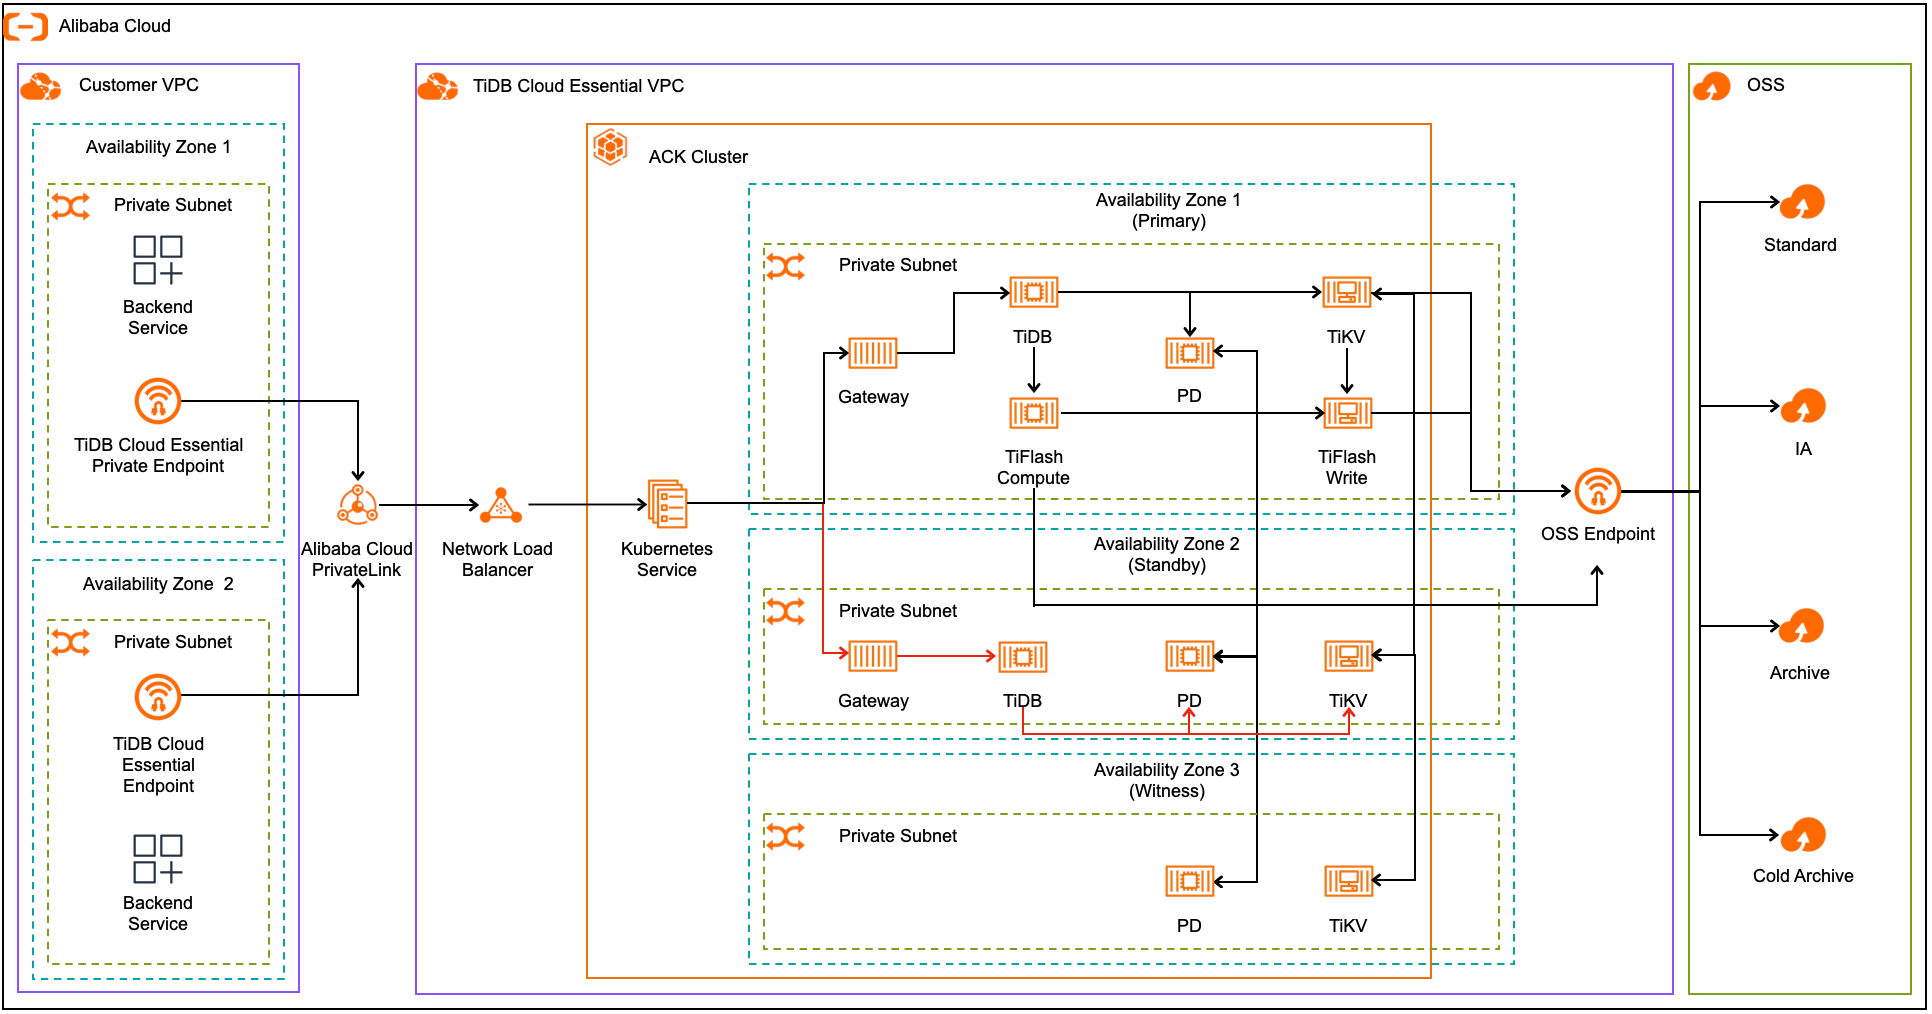
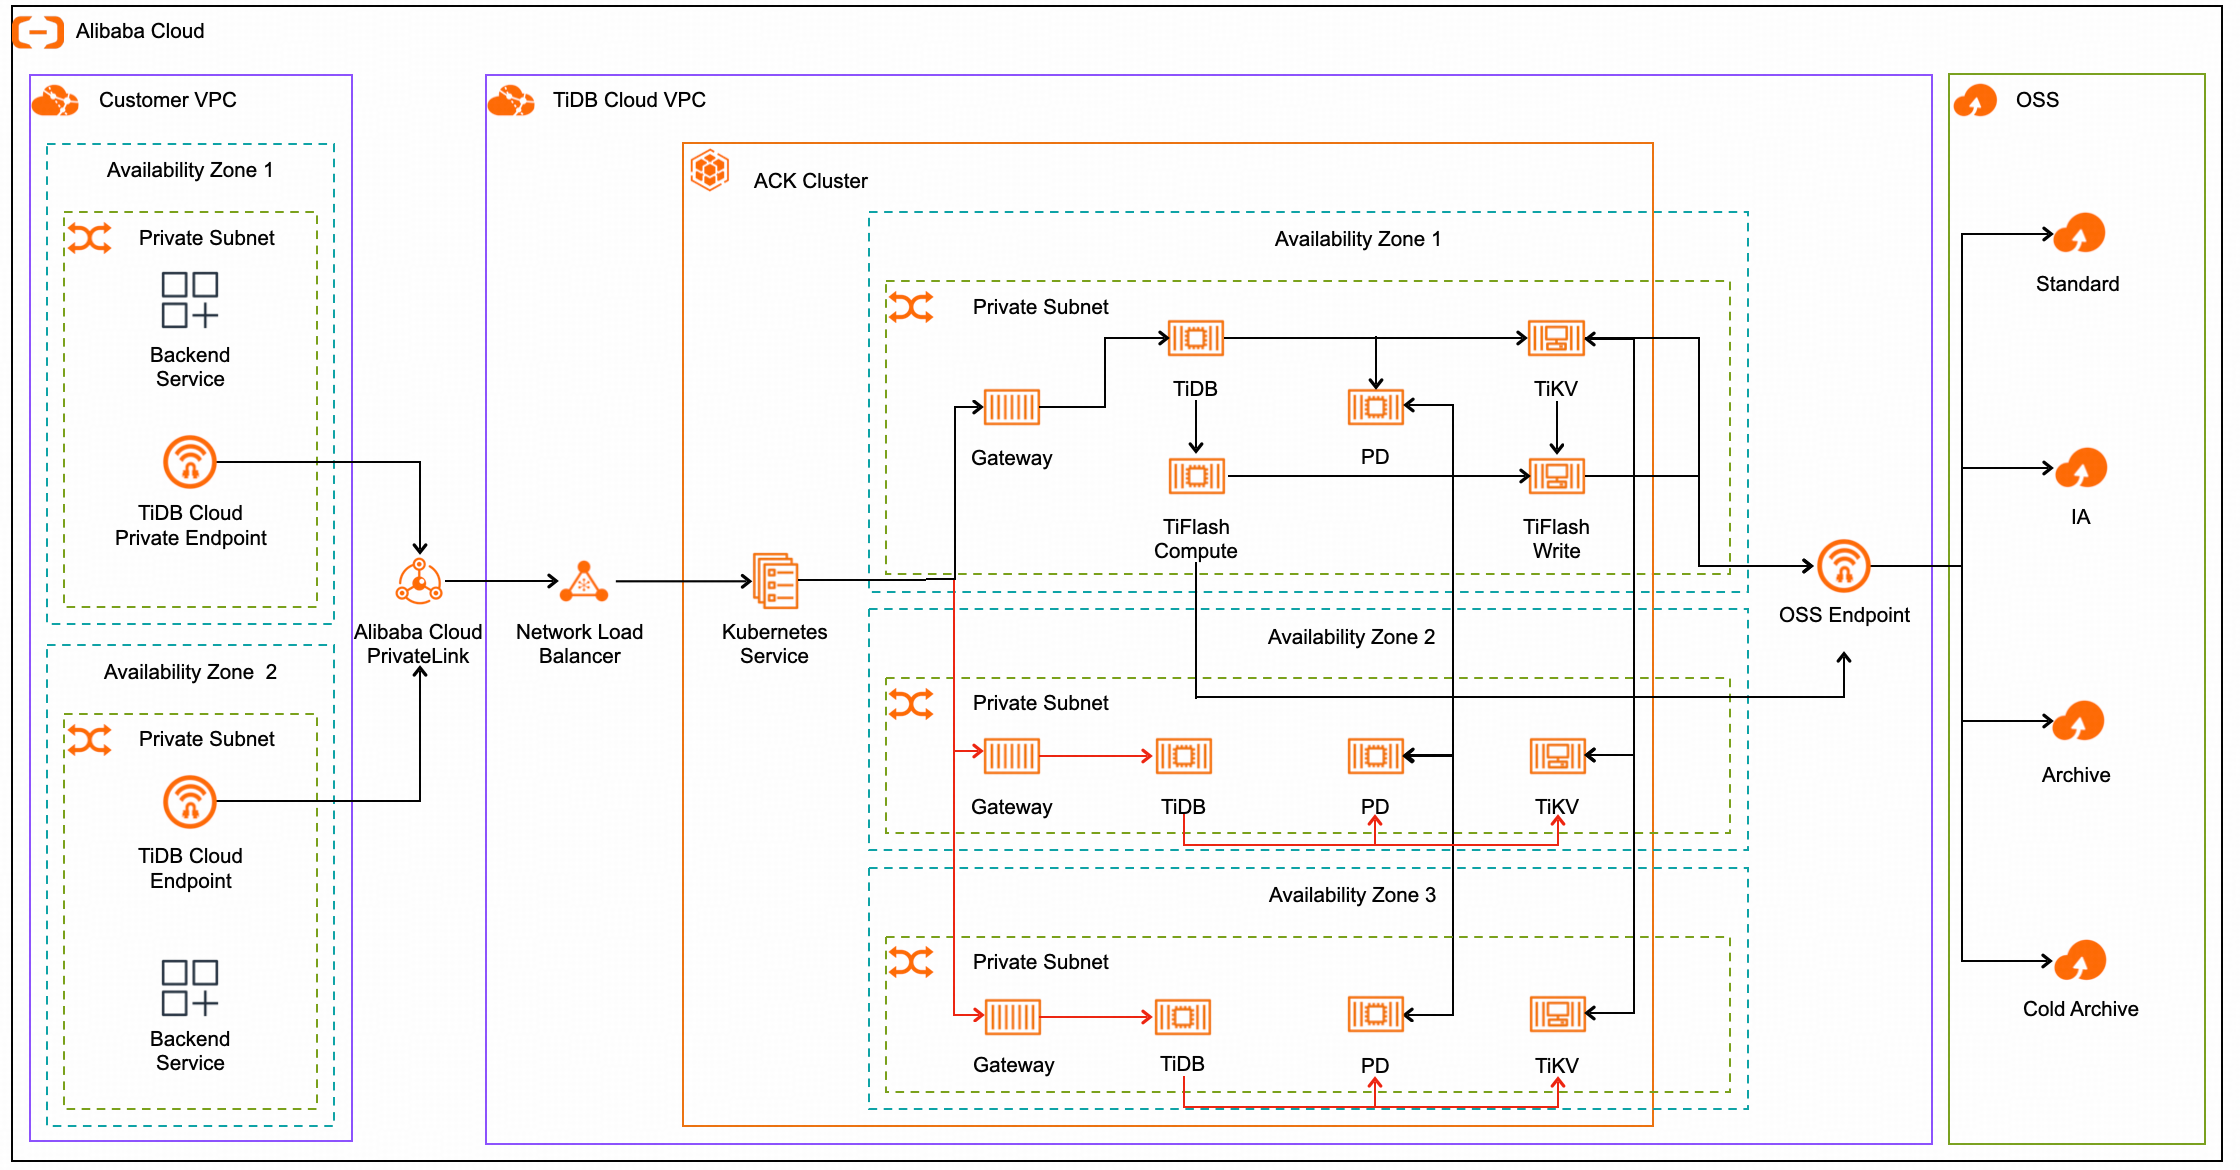
Essential-HighAvailability-changed (#23010)

Pull request: Essential-HighAvailability-changed
- Essential only support zonal high availability
- Private link does not support cross-region

<!--Thanks for your contribution to TiDB documentation. Please answer the following questions.-->
<!--
We provide several doc templates for you to use to create documentation that aligns with our style.
Please check out these templates before you submit the pull request:
https://github.com/pingcap/docs/tree/master/resources/doc-templates
-->

### First-time contributors' checklist <!--Remove this section if you're not a first-time contributor.-->

- [x] I've signed the [**Contributor License Agreement**](https://cla.pingcap.net/pingcap/docs), which is required for the repository owners to accept my contribution.

### What is changed, added or deleted? (Required)
Essential only support High availability: zonal; related doc changed

<!--Tell us what you did and why.-->

### Which TiDB version(s) do your changes apply to? (Required)

<!-- Fill in "x" in [] to tick the checkbox below.-->

**Tips for choosing the affected version(s):**

By default, **CHOOSE MASTER ONLY** so your changes will be applied to the next TiDB major or minor releases. If your PR involves a product feature behavior change or a compatibility change, **CHOOSE THE AFFECTED RELEASE BRANCH(ES) AND MASTER**.

For details, see [tips for choosing the affected versions](https://github.com/pingcap/docs/blob/master/CONTRIBUTING.md#guideline-for-choosing-the-affected-versions).
[…]

diff --git a/tidb-cloud/architecture-concepts.md b/tidb-cloud/architecture-concepts.md
@@ -53,15 +53,9 @@ For applications experiencing growing workloads and needing scalability in real 
 
 - **Enhanced capabilities**: includes all capabilities of the Starter plan, along with the capacity to handle larger and more complex workloads, as well as advanced security features.
 - **Automatic scaling**: automatically adjusts storage and computing resources to efficiently meet changing workload demands.
-- **High availability**: built-in fault tolerance and redundancy ensure your applications remain available and resilient, even during infrastructure failures.
 - **Predictable pricing**: billed based on storage and Request Capacity Units (RCUs) of the compute resources, offering transparent, usage-based pricing that scales with your needs, so you only pay for what you use without surprises.
 
-{{{ .essential }}} offers two types of high availability to address varying operational requirements.
-
-- Zonal High Availability: places all components within the same availability zone, which results in lower network latency.
-- Regional High Availability: distributes nodes across multiple availability zones, providing maximum infrastructure isolation and redundancy.
-
-For more information, see [High Availability in TiDB Cloud](/tidb-cloud/serverless-high-availability.md).
+{{{ .essential }}} offers zonal high availability, which places all components within the same availability zone to reduce network latency. For more information, see [High Availability in TiDB Cloud](/tidb-cloud/serverless-high-availability.md).
 
 ## {{{ .premium }}}
 

diff --git a/tidb-cloud/serverless-high-availability.md b/tidb-cloud/serverless-high-availability.md
@@ -20,9 +20,8 @@ TiDB Cloud extends these capabilities with zonal high availability and regional 
 
 > **Note:**
 >
-> - For {{{ .starter }}} instances, only zonal high availability is enabled, and it is not configurable.
+> - For {{{ .starter }}} and Essential instances, only zonal high availability is enabled, and it is not configurable.
 > - For {{{ .premium }}} instances, only regional high availability is enabled and is not configurable.
-> - For {{{ .essential }}} instances hosted in the AWS Tokyo (ap-northeast-1) region or any Alibaba Cloud region, regional high availability is enabled by default. You can change it to zonal high availability as needed during {{{ .essential }}} instance creation. For {{{ .essential }}} instances hosted in other regions, only zonal high availability is enabled, and it is not configurable.
 
 - **Zonal high availability**: This option places all nodes within a single availability zone, reducing network latency. It ensures high availability without requiring application-level redundancy across zones, making it suitable for applications that prioritize low latency within a single zone. For more information, see [Zonal high availability architecture](#zonal-high-availability-architecture).
 
@@ -86,7 +85,7 @@ The gateway and computing layers are stateless, so failover involves restarting 
 
 ## Regional high availability architecture
 
-When you create a {{{ .essential }}} or {{{ .premium }}} instance with regional high availability, critical OLTP (Online Transactional Processing) workload components, such as PD and TiKV, are deployed across multiple availability zones to ensure redundant replication and maximizing availability. During normal operations, components like Gateway, TiDB, and TiFlash compute/write nodes are hosted in the primary availability zone. These components in data plane offer infrastructure redundancy through virtual machine pools, which minimizes failover time and network latency due to colocation.
+When you create a {{{ .premium }}} instance with regional high availability, critical OLTP (Online Transactional Processing) workload components, such as PD and TiKV, are deployed across multiple availability zones to ensure redundant replication and maximize availability. During normal operations, components like Gateway, TiDB, and TiFlash compute/write nodes are hosted in the primary availability zone. These components in the data plane offer infrastructure redundancy through virtual machine pools, which minimizes failover time and network latency due to colocation.
 
 > **Note:**
 >

diff --git a/tidb-cloud/features.md b/tidb-cloud/features.md
@@ -253,7 +253,7 @@ This document lists the feature support status for different TiDB Cloud plans, i
     <td rowspan="1" style="background-color: white;">High availability</td>
     <td>Cross-AZ failover</td>
     <td style="text-align:center; font-size: 14px;">❌</td>
-    <td style="text-align:center;">✅</td>
+    <td style="text-align:center;">❌</td>
     <td style="text-align:center;">✅</td>
     <td style="text-align:center;">✅</td>
   </tr>

diff --git a/tidb-cloud/serverless-private-link-connection-to-aws-rds.md b/tidb-cloud/serverless-private-link-connection-to-aws-rds.md
@@ -48,7 +48,7 @@ The Amazon RDS instance must meet the following requirements:
 
 > **Note**
 >
-> To connect to a cross-region RDS instance, contact [TiDB Cloud Support](/tidb-cloud/tidb-cloud-support.md).
+> Currently, cross-region connectivity is not supported for {{{ .essential }}}. If you need cross-region connections, use TiDB Cloud Premium and establish connectivity through VPC peering.
 
 ## Step 2. Expose the Amazon RDS instance as an endpoint service
 